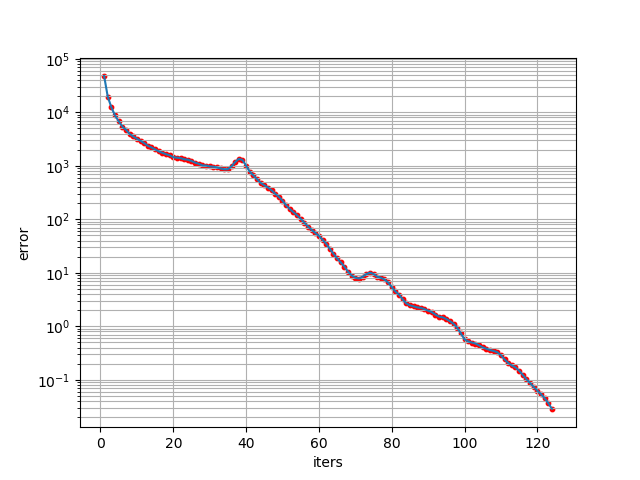
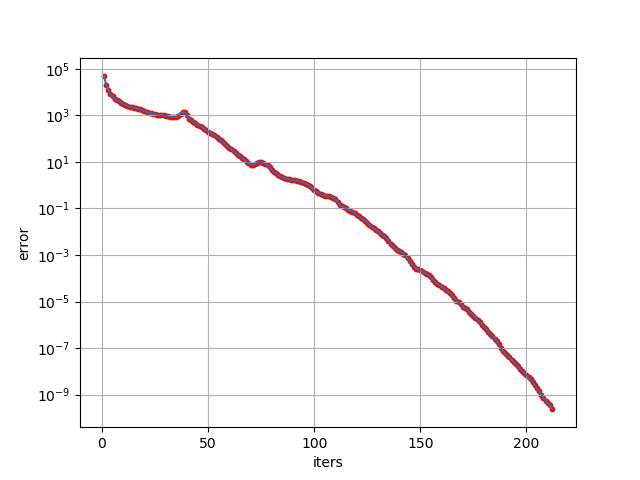
added cg method for sparse matrix

diff --git a/continuous_exercise/06/optcg.py b/continuous_exercise/06/optcg.py
@@ -4,15 +4,15 @@ import numpy as np
 import matplotlib.pyplot as plt
 from mpl_toolkits.mplot3d import Axes3D
 
-class CG:
-	def __init__(self, A, b, error = 0.00000000001):
-		assert A.shape[0] == b.shape[0]
-		self.A = A
-		self.x = np.random.rand(A.shape[1], 1)
+class OptCG:
+	def __init__(self, num, b, h, error = 0.00000000001):
+		self.num = num
+		self.h = h
+		self.x = np.random.rand(num ** 2, 1)
 		self.b = np.reshape(b, (b.shape[0], 1))
 		self.b_origin = self.b.copy()
 		self.b_norm = np.linalg.norm(self.b)
-		self.r = self.b - self.A @ self.x
+		self.r = self.b - self.calc_matrix(self.x)
 		self.p = self.r.copy()
 		self.y = self.b.copy()
 		self.alpha = 0
@@ -22,7 +22,6 @@ class CG:
 		self.solve_flag = 0
 
 	def dumpall(self):
-		print("A = \n", self.A)
 		print("x = \n", self.x)
 		print("b = \n", self.b)
 		print("r = \n", self.r)
@@ -32,15 +31,34 @@ class CG:
 		print("beta = \n", self.beta)
 		print("error = \n", self.error)
 	
-	def correct(self, print_flag):
-		ans = np.linalg.solve(self.A, self.b_origin)
-		if print_flag == 1:
-			print("correct answer = ")
-			print(ans)
-			return None
-		else:
-			return ans
-	
+	def calc_matrix(self, vector):
+		ret = np.zeros(vector.shape)
+		for i, v in enumerate(vector):
+			if i < self.num:
+				if i % self.num == 0:
+					ret[i] = vector[i + self.num] + vector[i + 1] - 4 * vector[i]
+				elif (i + 1) % self.num == 0:
+					ret[i] = vector[i + self.num] + vector[i - 1] - 4 * vector[i]
+				else:
+					ret[i] = vector[i + self.num] + vector[i - 1] + vector[i + 1] - 4 * vector[i]
+			elif i >= self.num ** 2 - self.num:
+				if i % self.num == 0:
+					ret[i] = vector[i - self.num] + vector[i + 1] - 4 * vector[i]
+				elif (i + 1) % self.num == 0:
+					ret[i] = vector[i - self.num] + vector[i - 1] - 4 * vector[i]
+				else:
+					ret[i] = vector[i - self.num] + vector[i - 1] + vector[i + 1] - 4 * vector[i]
+			else:
+				if i % self.num == 0:
+					ret[i] = vector[i - self.num] + vector[i + self.num] + vector[i + 1] - 4 * vector[i]
+				elif (i + 1) % self.num == 0:
+					ret[i] = vector[i - self.num] + vector[i + self.num] + vector[i - 1] - 4 * vector[i]
+				else:
+					ret[i] = vector[i - self.num] + vector[i + self.num] + vector[i - 1] + vector[i + 1] - 4 * vector[i]
+		ret = np.reshape(ret, vector.shape)
+		assert ret.shape == vector.shape
+		return ret / self.h ** 2
+			
 	def make_error_graph(self):
 		iters = self.errors.shape[0]
 		plt.yscale("log")
@@ -49,15 +67,14 @@ class CG:
 		plt.scatter(np.linspace(1, iters, iters), self.errors, c = "r", s = 10)
 		plt.xlabel("iters")
 		plt.ylabel("error")
-		plt.savefig("errors.png")
+		plt.savefig("opt_errors.png")
 		plt.clf()
 
 	def cg(self):
 		max_iter = 10000
-		step = 0
 		t1 = time.time()
 		for i in range(max_iter):
-			self.y = self.A @ self.p
+			self.y = self.calc_matrix(self.p)
 			self.alpha = np.linalg.norm(self.r) ** 2 / (self.p.T @ self.y)[0, 0]
 			self.x = self.x + self.alpha * self.p
 			r = self.r.copy()
@@ -65,20 +82,18 @@ class CG:
 			self.beta = (np.linalg.norm(self.r) / np.linalg.norm(r)) ** 2
 			self.p = self.r + self.beta * self.p
 			self.errors = np.append(self.errors, np.linalg.norm(self.r))
-			if np.linalg.norm(self.A @ self.x - self.b) / self.b_norm < self.error:
+			if np.linalg.norm(self.calc_matrix(self.x) - self.b) / self.b_norm < self.error:
 				print("steps : ", i)
-				step = i + 1
 				break
 		t2 = time.time()
 		print("time = ", t2 - t1)
-		return i
 
 	def solve(self):
 		if self.solve_flag == 0:
-			step = self.cg()
+			self.cg()
 			self.make_error_graph()
 			self.solve_flag = 1
-		return self.x, step
+		return self.x
 
 	def __call__(self):
 		if self.solve_flag == 0:
@@ -127,7 +142,7 @@ class Poisson:
 		plt.clf()
 
 	def plot3d(self, values, name):
-		x_range, y_range = np.meshgrid(self.range, self.range)  # 上述のサンプリング点(x,y)を使ったメッシュ生成
+		x_range, y_range = np.meshgrid(self.range, self.range) #サンプリング点(x,y)を使ったメッシュ生成
 		fig = plt.figure() #プロット領域の作成
 		ax = fig.gca(projection='3d') #プロット中の軸の取得。gca は"Get Current Axes" の略。
 		ax.plot_wireframe(x_range, y_range, values, color='blue',linewidth=0.3)
@@ -136,27 +151,19 @@ class Poisson:
 		plt.clf()
 		
 	def __call__(self):
-		I = np.eye(self.num)
-		O = np.ones((self.num, self.num))
-		U = np.triu(O, k = 1) - np.triu(O, k = 2)
-		L = np.triu(O, k = -1) - np.triu(O, k = 0)
-		B = U + L
-		A = - 4 * np.kron(I, I) + np.kron(B, I) + np.kron(I, B)
-		#print(A)
 		x = np.zeros(self.cells)
 		b = np.reshape(self.calc_b(), self.cells)
-		#print(b)
+		print(b)
 		
-		result, step = CG(A / self.h ** 2, b).solve() # ここのxは端っこは含まれていない
+		result = OptCG(self.num, b, self.h).solve() # ここのxは端っこは含まれていない
 		#result = CG(A / self.h ** 2, b).correct(0) # ここのxは端っこは含まれていない
 		result = np.reshape(result, (self.num, self.num))
-		self.plot(result, "cg_poisson")
-		self.plot3d(result, "cg_poisson")
+		self.plot(result, "optcg_poisson")
+		self.plot3d(result, "optcg_poisson")
 		print("diff = ", self.diffsum(result, self.calc_u()))
 		diff = self.diffmap(result, self.calc_u())
 		#self.plot(diff, "diff")
 		#self.plot3d(diff, "diff")
-		return step
 		
 def f(x, y):
 	return 2 * (x * (x - 1) + y * (y - 1))
@@ -165,15 +172,5 @@ def u(x, y):
 	return x * (x - 1) * y * (y - 1)
 
 if __name__ == "__main__":
-	steps = []
-	size_range = [11,21,31,41,51]
-	for i in size_range:
-		size, num = 1, i
-		step = Poisson(size, num, f, u)()
-		steps.append(step)
-	plt.xlabel("size")
-	plt.ylabel("steps")
-	plt.plot(size_range, steps)
-	plt.scatter(size_range, steps)
-	plt.savefig("steps.png")
-	plt.clf()
+	size, num = 1, 51
+	result = Poisson(size, num, f, u)()
